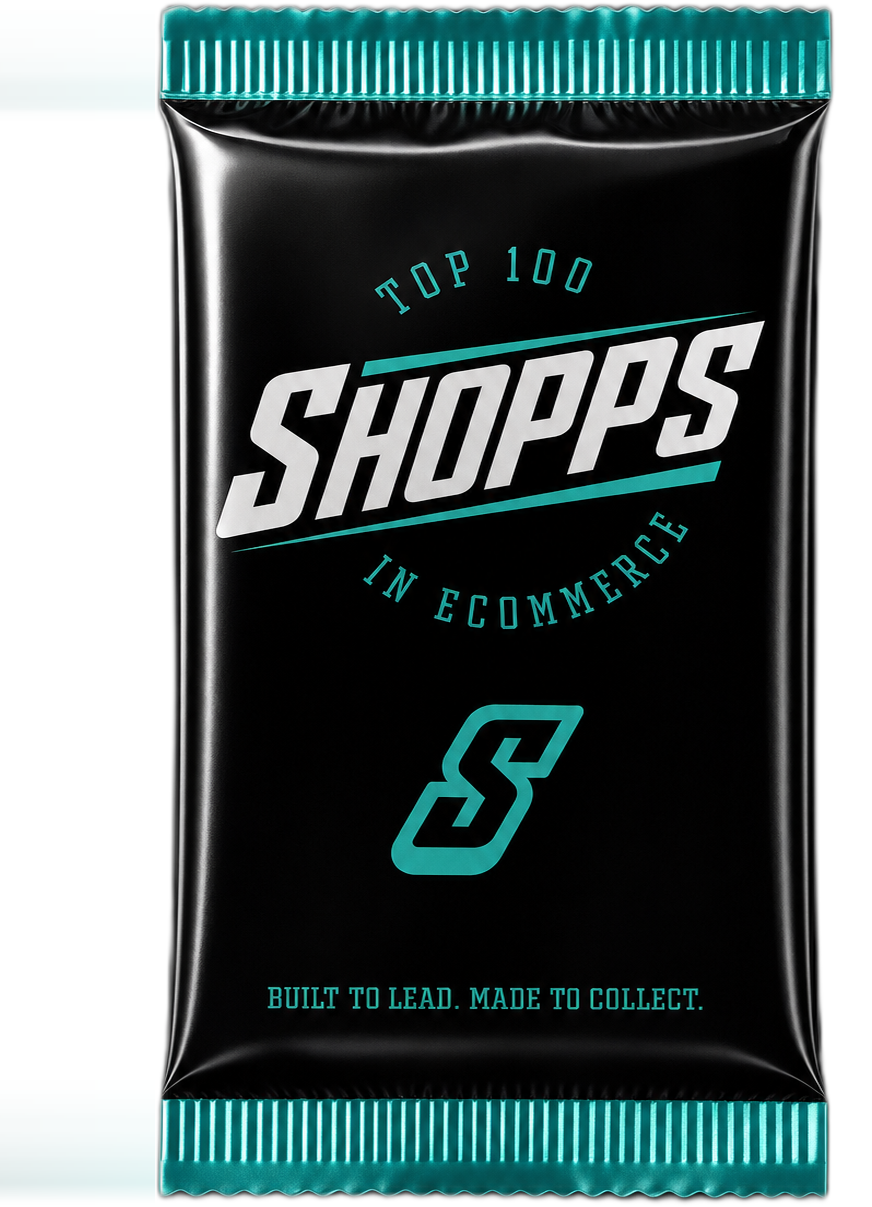
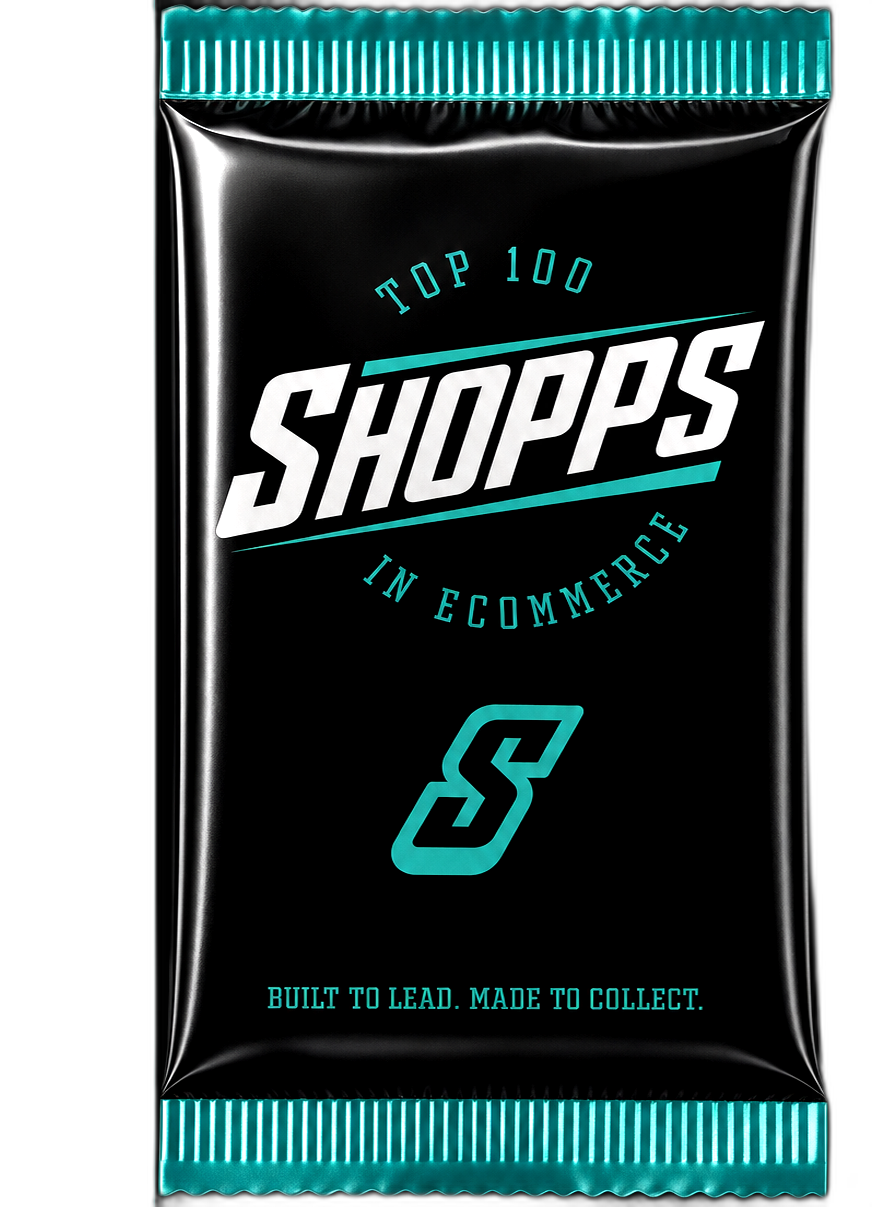
Carousel pack: mix-blend-mode screen (no bg mismatch) + scale to match cards

diff --git a/app/globals.css b/app/globals.css
@@ -796,6 +796,10 @@ a { color: inherit; text-decoration: none; }
   display: block;
   user-select: none;
 }
+.card-pack-wrap {
+  mix-blend-mode: screen;
+  transform: scale(0.88);
+}
 .card-pack-img {
   height: 100%;
   width: auto;
